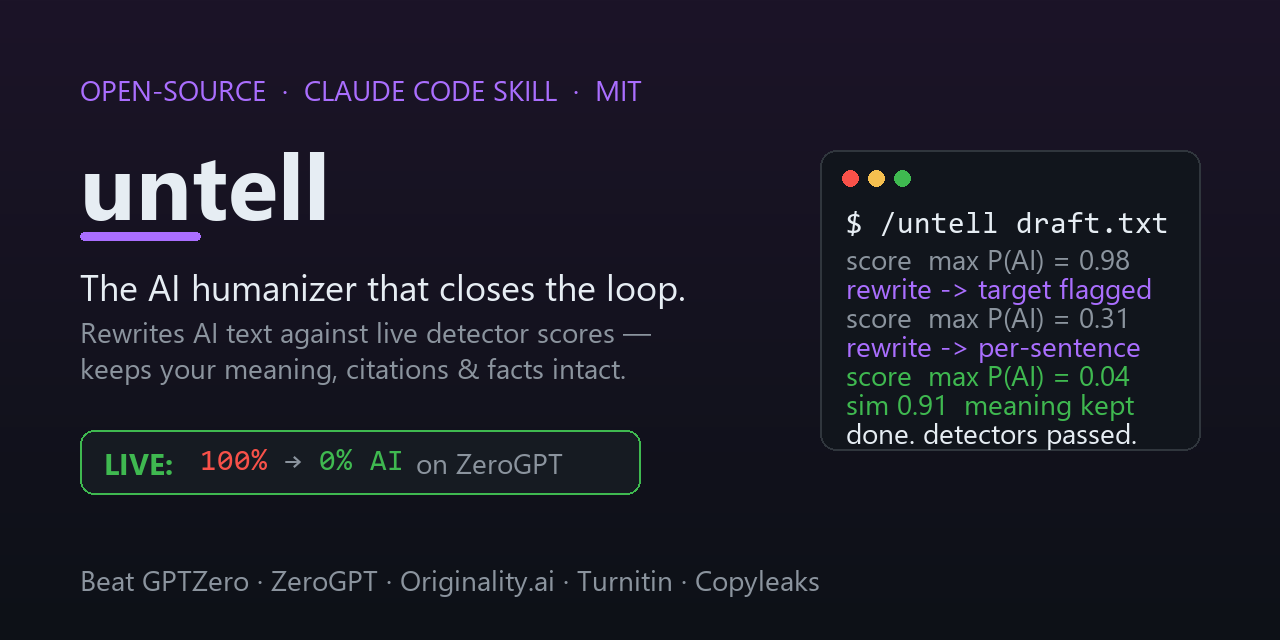
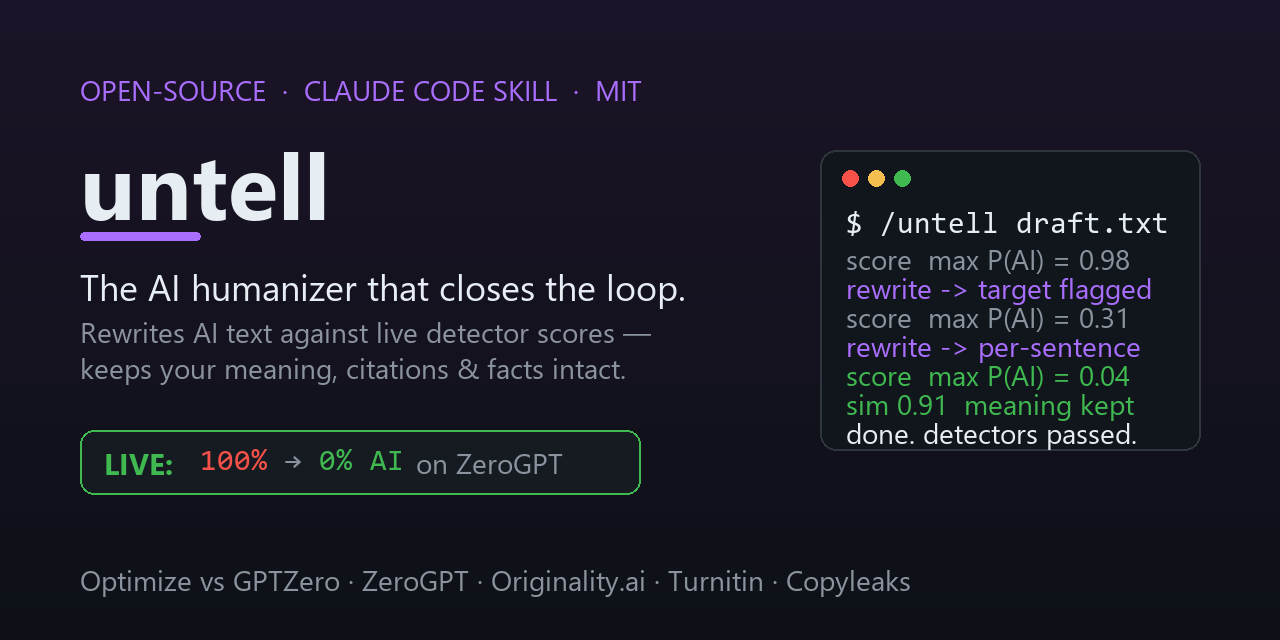
docs: stop implying the free/local path beats GPTZero (honesty fix)
A user pasted untell's output into GPTZero -> 100% AI ('AI Paraphrasing'), while the local ensemble
rated it 27.7%. The local proxies don't predict GPTZero's anti-humanizer model. Fixed the overclaiming:
- README headline: 'Beat GPTZero...' -> 'Optimize against real detectors WITH the detector in the loop';
  free path beats the free web checkers, but GPTZero/Originality/Turnitin need their API key wired in.
- Added an Honest-caveats bullet: low local score != passes GPTZero; only --tier commercial + a real key
  optimizes against a specific commercial detector, and even then they're the hardest.
- Banner image: 'Beat ...' -> 'Optimize vs ...'.

Changed region(s): [[0.0625, 0.875, 0.7188, 0.9375]]

diff --git a/README.md b/README.md
@@ -18,8 +18,11 @@ Free. Open source. Honest about what it can and can't do.
 [![Live site](https://img.shields.io/badge/site-ssamba1.github.io%2Funtell-2ea44f.svg)](https://ssamba1.github.io/untell/)
 [![good first issues](https://img.shields.io/github/issues/ssamba1/untell/good%20first%20issue.svg?label=good%20first%20issues&color=7057ff)](https://github.com/ssamba1/untell/labels/good%20first%20issue)
 
-**Beat GPTZero · ZeroGPT · Originality.ai · Turnitin-class · Copyleaks · Winston · Sapling** — by optimizing
-against them, not guessing. [Why this is the most complete open humanizer →](#-why-this-is-the-best-open-source-ai-humanizer)
+**Optimize against real detectors — with the detector *in the loop*, not blind guessing.** Out of the box it
+beats the **free web checkers** (ZeroGPT, live-proven 100%→0%). To actually beat **GPTZero · Originality.ai ·
+Turnitin-class · Copyleaks**, you wire *their* API into the loop (key-gated, paid) — the bundled **local
+proxies alone do *not* predict those, and we [say so plainly](#honest-caveats)** rather than fake a "99% human."
+[Why this is the most complete open humanizer →](#-why-this-is-the-best-open-source-ai-humanizer)
 
 </div>
 
@@ -343,6 +346,11 @@ loop — `untell-loop` loads the models once — over many one-off score calls. 
 
 - **Proxy ≠ commercial.** The local detectors approximate; they aren't Originality.ai / Turnitin. The
   ensemble is a *signal*, not a verdict. "Passes all checkers" is unprovable against detectors you don't run.
+- **Local proxies do NOT predict GPTZero / Originality.** Measured: a rewrite the bundled local ensemble rates
+  *low* can still score **100% AI on GPTZero**, which runs dedicated anti-humanizer ("AI Paraphrasing")
+  detection. A low local `max` means "passed the weak local proxies," **not** "undetectable." The only way to
+  optimize for a specific commercial detector is to put **it** in the loop (`--tier commercial` + its API key)
+  — and even then GPTZero/Originality are the hardest and nobody beats them reliably.
 - **lite is a demo.** The zero-install heuristic shows the loop; it's not an evasion claim. The full tier is
   the honest baseline; Binoculars (GPU) is the strongest proxy.
 - **Claude is the rewriter.** Output quality and evasion depend on the running model.